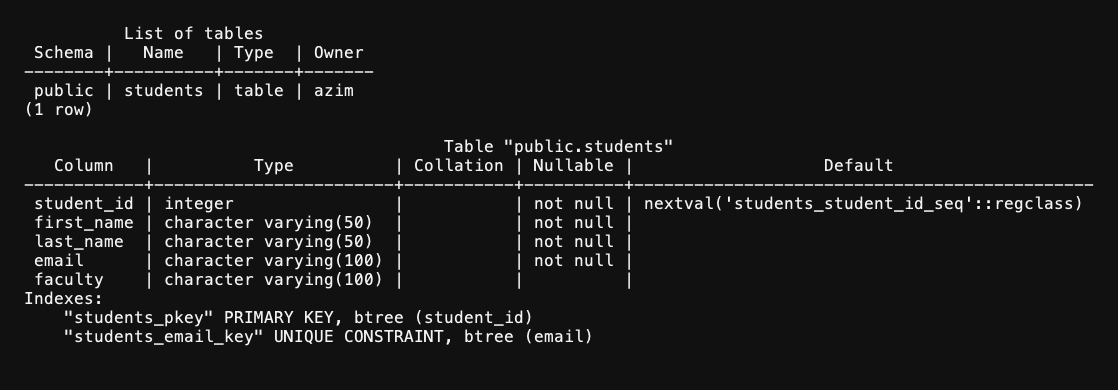
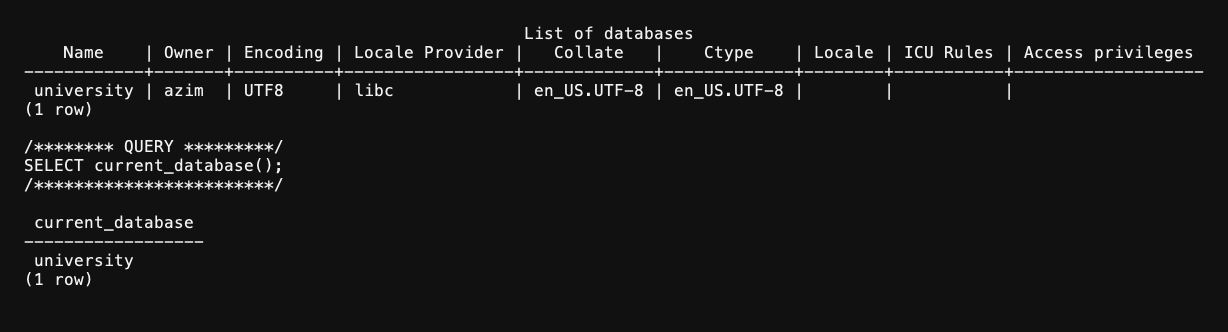
Add lab 4 and move labs 5-6 to weeks 3-4

diff --git a/week3/README.md b/week3/README.md
@@ -1,17 +1,15 @@
-# Лабораторная работа 6
+# Лабораторная работа 5
 
 Азим Маматбаев
 
-Тема: таблицы, типы данных и ограничения.
+Тема: базы данных в PostgreSQL.
 
-В базе `university` я создал таблицу `students` по примеру из файла: `student_id` — `SERIAL PRIMARY KEY`, имена — `VARCHAR(50) NOT NULL`, `email` — `VARCHAR(100) UNIQUE NOT NULL`, `faculty` — `VARCHAR(100)`. Команды `\dt` и `\d students` показали таблицу и её ограничения.
+Я удалил базу `university`, которая осталась после предыдущей попытки, и создал её заново. Потом вывел список баз и подключился к `university` через `psql`.
 
-На отдельной `test_table` я выполнил действия из разделов про `ALTER TABLE` и `DROP TABLE`: добавил столбец, изменил тип, добавил `CHECK`, переименовал и удалил столбец, переименовал таблицу и удалил её. Также создал временную таблицу, которая исчезает после завершения сеанса.
-
-Результат: в схеме `public` осталась только таблица `students` с пятью столбцами.
+Результат: команды `DROP DATABASE` и `CREATE DATABASE` выполнились успешно. В списке баз есть `university`, а `SELECT current_database()` вернул `university`.
 
 [Вывод psql](result.txt)
 
-![Результат проверки таблицы students](result.png)
+![Результат проверки базы university](result.png)
 
-[Мои SQL-команды](lab6.sql) · [Материал лабораторной](https://docs.google.com/document/d/1VbzMZLRlmZaGdtf2FBgx3tjAhQRSBaNU/edit)
+[Мои SQL-команды](lab5.sql) · [Материал лабораторной](https://docs.google.com/document/d/1tACFw9v3Um6sak1ZjbQzxRur91qSvJKw/edit)

diff --git a/week2/README.md b/week2/README.md
@@ -1,15 +1,15 @@
-# Лабораторная работа 5
+# Лабораторная работа 4
 
 Азим Маматбаев
 
-Тема: базы данных в PostgreSQL.
+Тема: первые SQL-запросы.
 
-Я удалил базу `university`, которая осталась после предыдущей попытки, и создал её заново. Потом вывел список баз и подключился к `university` через `psql`.
+Я выполнил запросы `SELECT` к таблице `university.public.students`: вывел все столбцы, отдельные столбцы, применил `WHERE`, `ORDER BY` и `LIMIT`. В материале лабораторной используется столбец `name`, а в моей таблице он называется `first_name`, поэтому в запросах я использовал `first_name AS name`. В примере `ORDER BY` не указан столбец сортировки; я указал `first_name`.
 
-Результат: команды `DROP DATABASE` и `CREATE DATABASE` выполнились успешно. В списке баз есть `university`, а `SELECT current_database()` вернул `university`.
+Результат: все запросы выполнились без ошибок. Таблица пока пустая (`COUNT(*) = 0`), поэтому выборки вернули 0 строк. Данные для результата я не добавлял.
 
 [Вывод psql](result.txt)
 
-![Результат проверки базы university](result.png)
+![Результаты запросов SELECT](result.png)
 
-[Мои SQL-команды](lab5.sql) · [Материал лабораторной](https://docs.google.com/document/d/1tACFw9v3Um6sak1ZjbQzxRur91qSvJKw/edit)
+[Мои SQL-команды](lab4.sql) · [Материал лабораторной](https://docs.google.com/document/d/10qSdz8lve4SAzF0mLsQW1yG2oGQPK1aX/edit)

diff --git a/week4/README.md b/week4/README.md
@@ -1,0 +1,17 @@
+# Лабораторная работа 6
+
+Азим Маматбаев
+
+Тема: таблицы, типы данных и ограничения.
+
+В базе `university` я создал таблицу `students` по примеру из файла: `student_id` — `SERIAL PRIMARY KEY`, имена — `VARCHAR(50) NOT NULL`, `email` — `VARCHAR(100) UNIQUE NOT NULL`, `faculty` — `VARCHAR(100)`. Команды `\dt` и `\d students` показали таблицу и её ограничения.
+
+На отдельной `test_table` я выполнил действия из разделов про `ALTER TABLE` и `DROP TABLE`: добавил столбец, изменил тип, добавил `CHECK`, переименовал и удалил столбец, переименовал таблицу и удалил её. Также создал временную таблицу, которая исчезает после завершения сеанса.
+
+Результат: в схеме `public` осталась только таблица `students` с пятью столбцами.
+
+[Вывод psql](result.txt)
+
+![Результат проверки таблицы students](result.png)
+
+[Мои SQL-команды](lab6.sql) · [Материал лабораторной](https://docs.google.com/document/d/1VbzMZLRlmZaGdtf2FBgx3tjAhQRSBaNU/edit)

diff --git a/README.md b/README.md
@@ -5,5 +5,6 @@
 В репозитории собраны результаты лабораторных работ по PostgreSQL.
 
 - [Лабораторные работы 1–3](week1/README.md)
-- [Лабораторная работа 5](week2/README.md)
-- [Лабораторная работа 6](week3/README.md)
+- [Лабораторная работа 4](week2/README.md)
+- [Лабораторная работа 5](week3/README.md)
+- [Лабораторная работа 6](week4/README.md)
